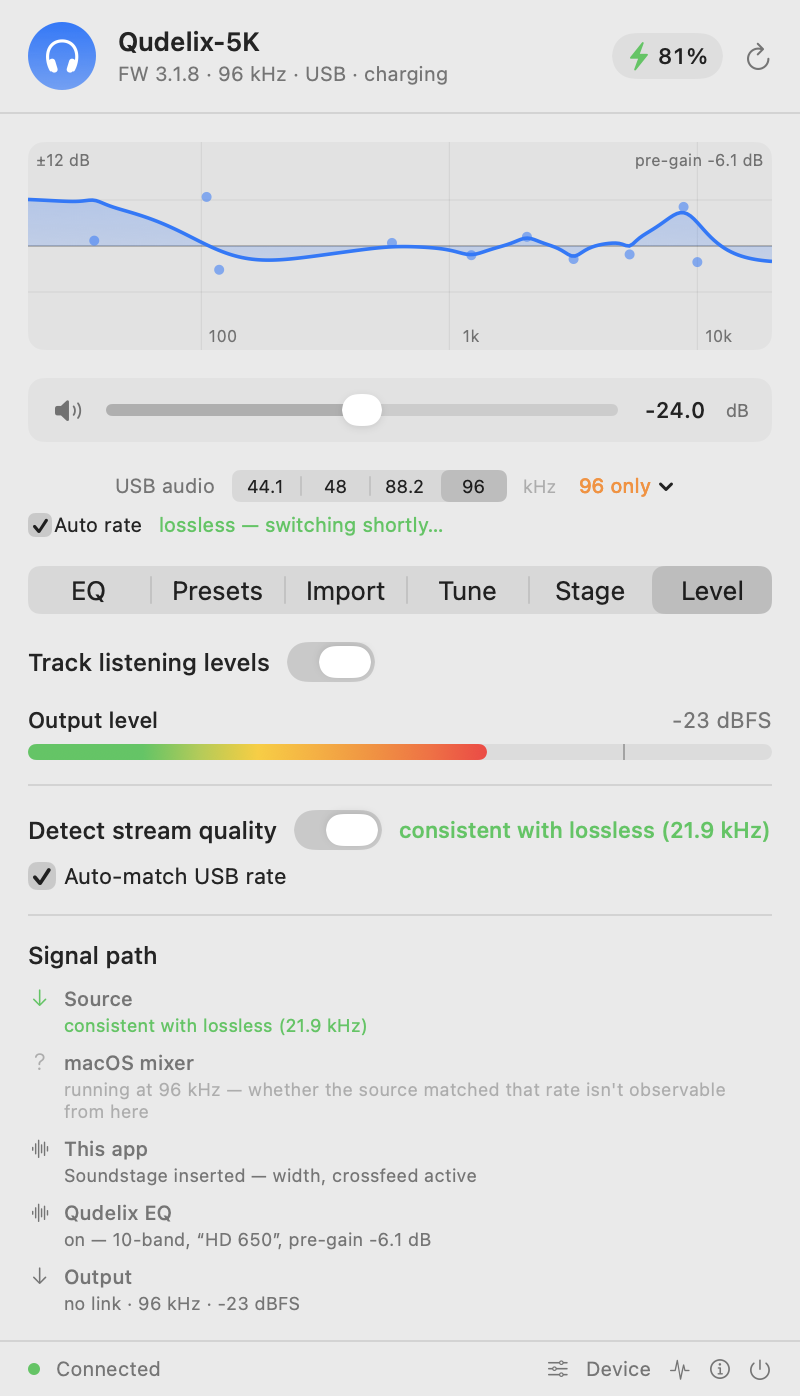
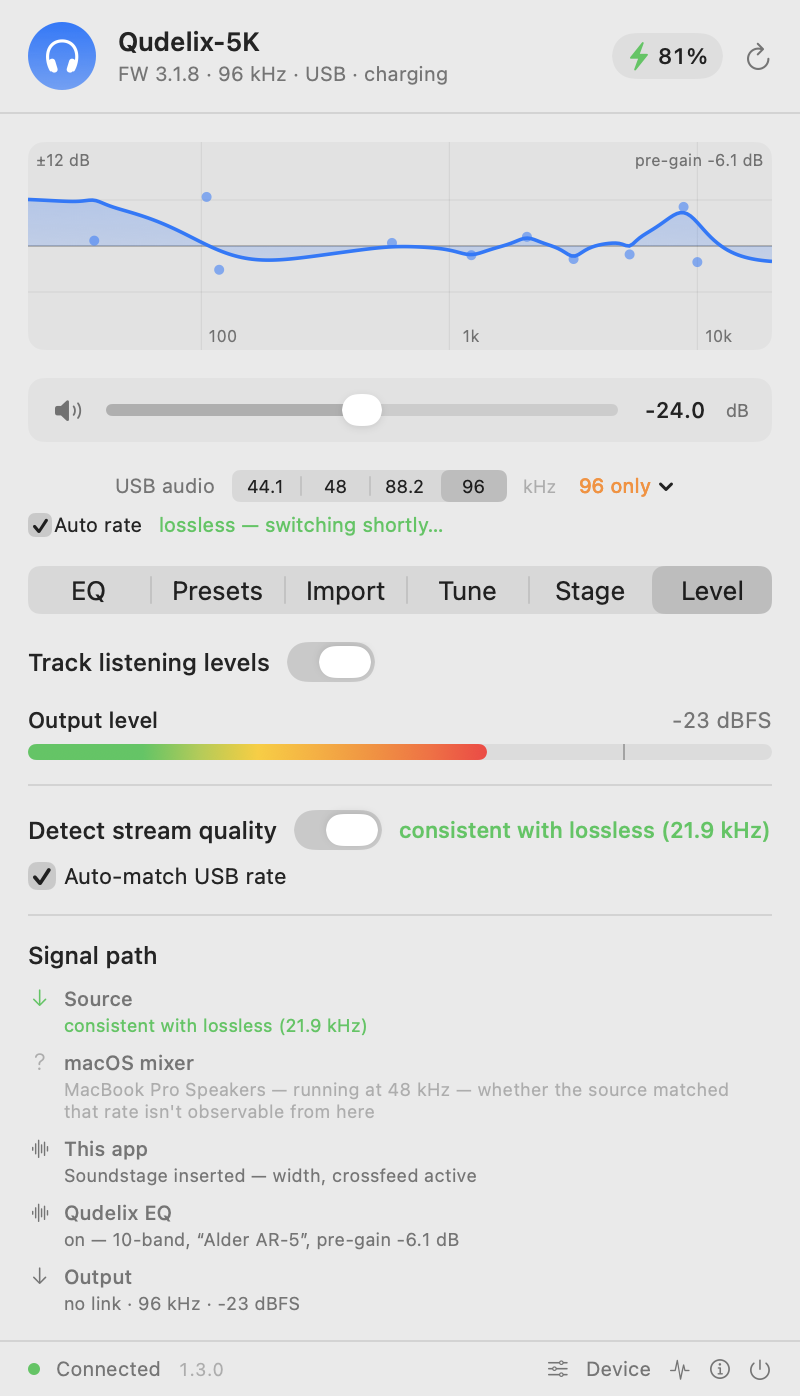
Use invented headphone names in the render mocks
The mock state behind the screenshots named a real manufacturer's products,
seven of them in the import list and one on a preset slot, and those names
went straight into the pictures published with the project. They were only
ever placeholders standing in for "something a person might search for", so
they carry no information a made-up name does not, while implying a
relationship with a company that has nothing to do with this app.

Replace them with an invented family. The device the app talks to keeps its
real name, because that one is the subject. Screenshots regenerated from the
harness, so they also pick up the pane clipping and the build identity in the
footer.

Changed region(s): [[0.0938, 0.7701, 0.9062, 0.8009], [0.375, 0.8625, 0.5625, 0.8933], [0.25, 0.8625, 0.3438, 0.8933]]

diff --git a/QudelixBar/Sources/QudelixBar/UIPreview.swift b/QudelixBar/Sources/QudelixBar/UIPreview.swift
@@ -248,8 +248,7 @@ enum UIPreview {
         c.crossfeedLevel = 0
         c.preGain = -6.1
         c.activePreset = 2
-        c.presetNames = [0: "Harman", 2: "HD 650", 5: "Bass boost"]
-        // A realistic AutoEq-style curve (Sennheiser HD 650, oratory1990).
+        c.presetNames = [0: "Harman", 2: "Alder AR-5", 5: "Bass boost"]
         c.bands = [
             .init(filter: .lowShelf, freq: 105, gain: 6.4, q: 0.70),
             .init(filter: .peak, freq: 8800, gain: 5.1, q: 1.42),
@@ -265,21 +264,21 @@ enum UIPreview {
         c.previewPane = pane
         if pane == .importing {
             c.previewAutoEq = (entries: [
-                AutoEqEntry(title: "Sennheiser HD 650", source: "oratory1990",
-                            path: "oratory1990/over-ear/Sennheiser%20HD%20650"),
-                AutoEqEntry(title: "Sennheiser HD 660S", source: "oratory1990",
-                            path: "oratory1990/over-ear/Sennheiser%20HD%20660S"),
-                AutoEqEntry(title: "Sennheiser HD 600", source: "crinacle",
-                            path: "crinacle/harman_over-ear_2018/Sennheiser%20HD%20600"),
-                AutoEqEntry(title: "Sennheiser HD 6XX", source: "oratory1990",
-                            path: "oratory1990/over-ear/Sennheiser%20HD%206XX"),
-                AutoEqEntry(title: "Sennheiser HD 560S", source: "oratory1990",
-                            path: "oratory1990/over-ear/Sennheiser%20HD%20560S"),
-                AutoEqEntry(title: "Sennheiser HD 800 S", source: "oratory1990",
-                            path: "oratory1990/over-ear/Sennheiser%20HD%20800%20S"),
-                AutoEqEntry(title: "Sennheiser HD 25", source: "crinacle",
-                            path: "crinacle/harman_over-ear_2018/Sennheiser%20HD%2025"),
-            ], query: "HD")
+                AutoEqEntry(title: "Alder AR-5", source: "oratory1990",
+                            path: "oratory1990/over-ear/Alder%20AR-5"),
+                AutoEqEntry(title: "Alder AR-5 Pro", source: "oratory1990",
+                            path: "oratory1990/over-ear/Alder%20AR-5%20Pro"),
+                AutoEqEntry(title: "Alder AR-3", source: "crinacle",
+                            path: "crinacle/harman_over-ear_2018/Alder%20AR-3"),
+                AutoEqEntry(title: "Alder AR-5X", source: "oratory1990",
+                            path: "oratory1990/over-ear/Alder%20AR-5X"),
+                AutoEqEntry(title: "Alder AR-2", source: "oratory1990",
+                            path: "oratory1990/over-ear/Alder%20AR-2"),
+                AutoEqEntry(title: "Alder AR-9 Reference", source: "oratory1990",
+                            path: "oratory1990/over-ear/Alder%20AR-9%20Reference"),
+                AutoEqEntry(title: "Alder AR-1 Studio", source: "crinacle",
+                            path: "crinacle/harman_over-ear_2018/Alder%20AR-1%20Studio"),
+            ], query: "AR")
         }
         return c
     }
